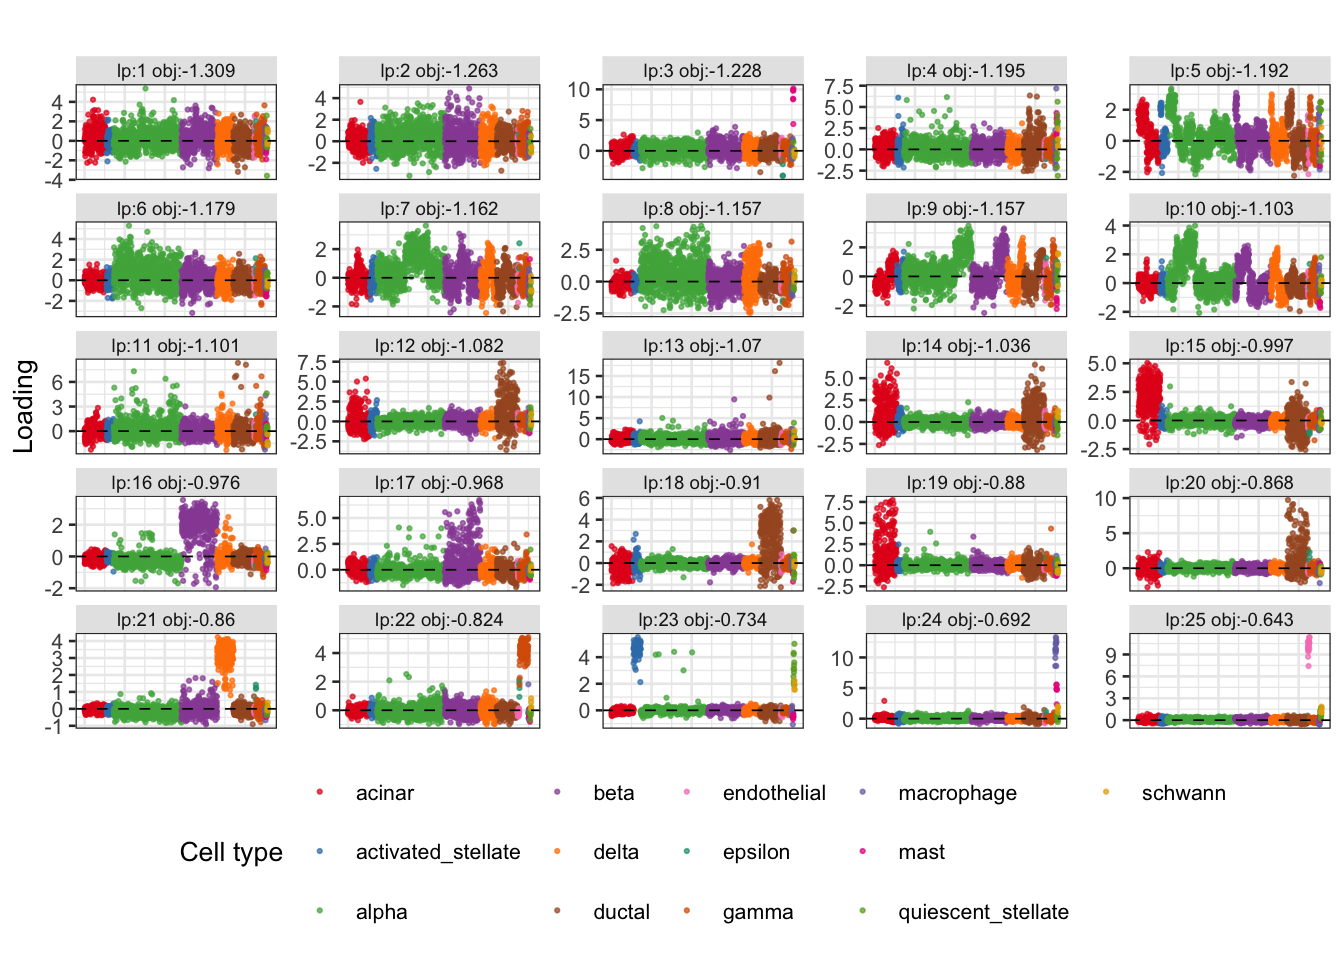
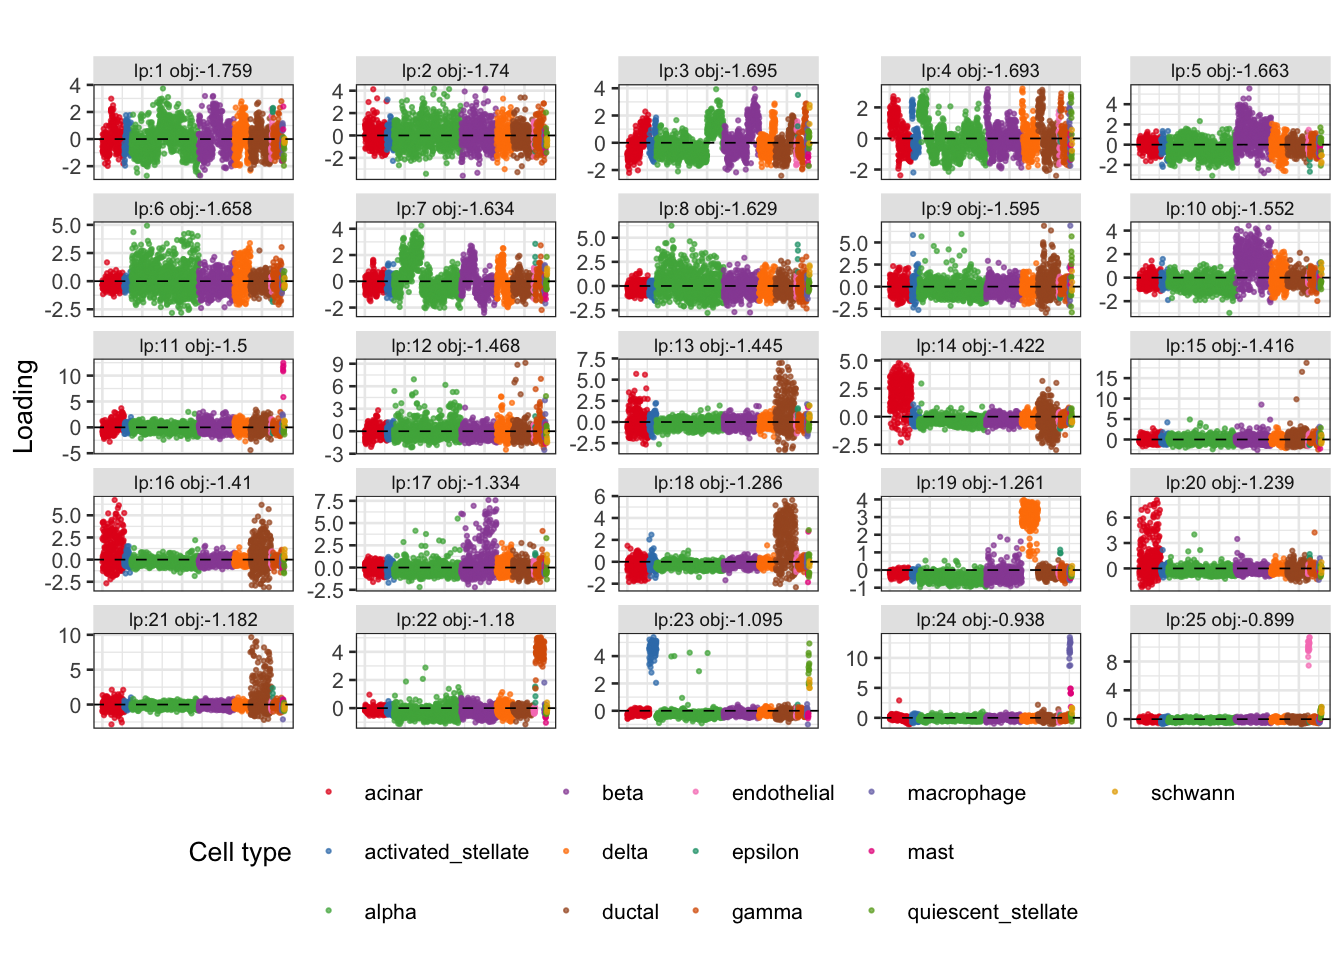
Build site.

diff --git a/docs/pancreas_celseq2_ica_02.html b/docs/pancreas_celseq2_ica_02.html
@@ -465,16 +465,16 @@ This reproducible <a href="https://rmarkdown.rstudio.com">R Markdown</a> analysi
 <div class="panel panel-default">
 <div class="panel-heading">
 <p class="panel-title">
-<a data-toggle="collapse" data-parent="#workflowr-checks" href="#strongRepositoryversionstrongahrefhttpsgithubcomstephenslabsinglecelljamboreetreea8d1267744e4d8fff8fd75a4122e4789c81740b6targetblanka8d1267a"> <span class="glyphicon glyphicon-ok text-success" aria-hidden="true"></span> <strong>Repository version:</strong> <a href="https://github.com/stephenslab/single-cell-jamboree/tree/a8d1267744e4d8fff8fd75a4122e4789c81740b6" target="_blank">a8d1267</a> </a>
+<a data-toggle="collapse" data-parent="#workflowr-checks" href="#strongRepositoryversionstrongahrefhttpsgithubcomstephenslabsinglecelljamboreetree46100371de5296be0116a200f9e0723b4677a32atargetblank4610037a"> <span class="glyphicon glyphicon-ok text-success" aria-hidden="true"></span> <strong>Repository version:</strong> <a href="https://github.com/stephenslab/single-cell-jamboree/tree/46100371de5296be0116a200f9e0723b4677a32a" target="_blank">4610037</a> </a>
 </p>
 </div>
[2 lines of base64/hex data omitted]
 <div class="panel-body">
 <p>
 Great! You are using Git for version control. Tracking code development and connecting the code version to the results is critical for reproducibility.
 </p>
 <p>
-The results in this page were generated with repository version <a href="https://github.com/stephenslab/single-cell-jamboree/tree/a8d1267744e4d8fff8fd75a4122e4789c81740b6" target="_blank">a8d1267</a>. See the <em>Past versions</em> tab to see a history of the changes made to the R Markdown and HTML files.
+The results in this page were generated with repository version <a href="https://github.com/stephenslab/single-cell-jamboree/tree/46100371de5296be0116a200f9e0723b4677a32a" target="_blank">4610037</a>. See the <em>Past versions</em> tab to see a history of the changes made to the R Markdown and HTML files.
 </p>
 <p>
 Note that you need to be careful to ensure that all relevant files for the analysis have been committed to Git prior to generating the results (you can use <code>wflow_publish</code> or <code>wflow_git_commit</code>). workflowr only checks the R Markdown file, but you know if there are other scripts or data files that it depends on. Below is the status of the Git repository when the results were generated:
@@ -542,6 +542,40 @@ Message
 Rmd
 </td>
 <td>
+<a href="https://github.com/stephenslab/single-cell-jamboree/blob/46100371de5296be0116a200f9e0723b4677a32a/analysis/pancreas_celseq2_ica_02.Rmd" target="_blank">4610037</a>
+</td>
+<td>
+Matthew Stephens
+</td>
+<td>
+2026-09-16
+</td>
+<td>
+Fix: centre data before whitening
+</td>
+</tr>
+<tr>
+<td>
+html
+</td>
+<td>
+<a href="https://rawcdn.githack.com/stephenslab/single-cell-jamboree/e748825caa62c5a1cc02333ced41ee9688a74115/docs/pancreas_celseq2_ica_02.html" target="_blank">e748825</a>
+</td>
+<td>
+Matthew Stephens
+</td>
+<td>
+2026-09-16
+</td>
+<td>
+Build site.
+</td>
+</tr>
+<tr>
+<td>
+Rmd
+</td>
+<td>
 <a href="https://github.com/stephenslab/single-cell-jamboree/blob/a8d1267744e4d8fff8fd75a4122e4789c81740b6/analysis/pancreas_celseq2_ica_02.Rmd" target="_blank">a8d1267</a>
 </td>
 <td>
@@ -565,7 +599,7 @@ Add pancreas_celseq2_ica_02: rank-r ICA with cubic, logPhi, x|x|
 <h2>Introduction</h2>
 <p>A second look at ICA on the pancreas CEL-seq2 data, incorporating lessons from the first analysis (<code>pancreas_celseq2_ica.Rmd</code>). Key differences from the first analysis:</p>
 <ul>
-<li>Data are <strong>not centred</strong> before whitening. The mean direction becomes one of the 25 components and can be explicitly examined.</li>
+<li>Data are <strong>centred</strong> (column means subtracted) before whitening, as is standard for ICA.</li>
 <li>We run <strong>rank-<span class="math inline">\(r\)</span> (symmetric) fastICA with <span class="math inline">\(r = 25\)</span></strong> rather than many rank-1 starts, which is faster and avoids the post-hoc deduplication step.</li>
 <li>We compare three contrast functions chosen to favour one-sided/sparse sources: <span class="math inline">\(x^3\)</span> (kurtosis/skewness), <span class="math inline">\(\log\Phi(\alpha x)\)</span> (log-normal CDF), and <span class="math inline">\(x|x|\)</span> (the tilting term of TLC without the log-cosh).</li>
 </ul>
@@ -588,19 +622,20 @@ counts &lt;- counts[, j]
 a &lt;- 1
 s &lt;- rowSums(counts)
 s &lt;- s / mean(s)
-Y &lt;- MatrixExtra::mapSparse(counts / (a * s), log1p)   # NOT centred</code></pre>
+Y &lt;- MatrixExtra::mapSparse(counts / (a * s), log1p)
+Y &lt;- scale(Y, scale = FALSE)   # centre columns</code></pre>
 </div>
-<div id="preprocessing-svd-of-uncentered-data" class="section level2">
-<h2>Preprocessing: SVD of uncentered data</h2>
+<div id="preprocessing-svd-of-centred-data" class="section level2">
+<h2>Preprocessing: SVD of centred data</h2>
 <pre class="r"><code>n      &lt;- nrow(Y)
 n.comp &lt;- 25
 r      &lt;- n.comp
 
 Y.svd &lt;- svd(Y, nu = n.comp, nv = 0)
-# U: n x n.comp, orthonormal columns (left singular vectors of uncentered Y)
-U_unc &lt;- Y.svd$u[, 1:n.comp]
+# U: n x n.comp, orthonormal columns (left singular vectors of centred Y)
+U_c &lt;- Y.svd$u[, 1:n.comp]
 # Whitened row space (n.comp x n, as used by rank-r fastICA)
-U_w   &lt;- sqrt(n) * t(U_unc)</code></pre>
+U_w &lt;- sqrt(n) * t(U_c)</code></pre>
 </div>
 <div id="helper-functions" class="section level2">
 <h2>Helper functions</h2>
@@ -731,6 +766,43 @@ Lhat_cubic &lt;- t(U_w) %*% W_cubic   # n x r
 plot_loadings_matrix(Lhat_cubic, label_prefix = &quot;cub:&quot;,
                      obj_fn = objective_cubic)</code></pre>
 <p><img src="figure/pancreas_celseq2_ica_02.Rmd/ica-cubic-1.png" alt="" width="672" style="display: block; margin: auto;" /></p>
+<p>
+<button type="button" class="btn btn-default btn-xs btn-workflowr btn-workflowr-fig" data-toggle="collapse" data-target="#fig-ica-cubic-1">
+Past versions of ica-cubic-1.png
+</button>
+</p>
+<div id="fig-ica-cubic-1" class="collapse">
+<div class="table-responsive">
+<table class="table table-condensed table-hover">
+<thead>
+<tr>
+<th>
+Version
+</th>
+<th>
+Author
+</th>
+<th>
+Date
+</th>
+</tr>
+</thead>
+<tbody>
+<tr>
+<td>
+<a href="https://github.com/stephenslab/single-cell-jamboree/blob/e748825caa62c5a1cc02333ced41ee9688a74115/docs/figure/pancreas_celseq2_ica_02.Rmd/ica-cubic-1.png" target="_blank">e748825</a>
+</td>
+<td>
+Matthew Stephens
+</td>
+<td>
+2026-09-16
+</td>
+</tr>
+</tbody>
+</table>
+</div>
+</div>
 </div>
 <div id="rank-r-fastica-log-phi-contrast-alpha-2" class="section level2">
 <h2>Rank-r fastICA: log-Phi contrast (alpha = 2)</h2>
@@ -744,6 +816,43 @@ Lhat_lp &lt;- t(U_w) %*% W_lp
 plot_loadings_matrix(Lhat_lp, label_prefix = &quot;lp:&quot;,
                      obj_fn = objective_logphi)</code></pre>
 <p><img src="figure/pancreas_celseq2_ica_02.Rmd/ica-logphi-1.png" alt="" width="672" style="display: block; margin: auto;" /></p>
+<p>
+<button type="button" class="btn btn-default btn-xs btn-workflowr btn-workflowr-fig" data-toggle="collapse" data-target="#fig-ica-logphi-1">
+Past versions of ica-logphi-1.png
+</button>
+</p>
+<div id="fig-ica-logphi-1" class="collapse">
+<div class="table-responsive">
+<table class="table table-condensed table-hover">
+<thead>
+<tr>
+<th>
+Version
+</th>
+<th>
+Author
+</th>
+<th>
+Date
+</th>
+</tr>
+</thead>
+<tbody>
+<tr>
+<td>
+<a href="https://github.com/stephenslab/single-cell-jamboree/blob/e748825caa62c5a1cc02333ced41ee9688a74115/docs/figure/pancreas_celseq2_ica_02.Rmd/ica-logphi-1.png" target="_blank">e748825</a>
+</td>
+<td>
+Matthew Stephens
+</td>
+<td>
+2026-09-16
+</td>
+</tr>
+</tbody>
+</table>
+</div>
+</div>
 </div>
 <div id="rank-r-fastica-xx-contrast" class="section level2">
 <h2>Rank-r fastICA: x|x| contrast</h2>
@@ -757,6 +866,43 @@ Lhat_skew &lt;- t(U_w) %*% W_skew
 plot_loadings_matrix(Lhat_skew, label_prefix = &quot;sk:&quot;,
                      obj_fn = objective_skew)</code></pre>
 <p><img src="figure/pancreas_celseq2_ica_02.Rmd/ica-skew-1.png" alt="" width="672" style="display: block; margin: auto;" /></p>
+<p>
+<button type="button" class="btn btn-default btn-xs btn-workflowr btn-workflowr-fig" data-toggle="collapse" data-target="#fig-ica-skew-1">
+Past versions of ica-skew-1.png
+</button>
+</p>
+<div id="fig-ica-skew-1" class="collapse">
+<div class="table-responsive">
+<table class="table table-condensed table-hover">
+<thead>
+<tr>
+<th>
+Version
+</th>
+<th>
+Author
+</th>
+<th>
+Date
+</th>
+</tr>
+</thead>
+<tbody>
+<tr>
+<td>
+<a href="https://github.com/stephenslab/single-cell-jamboree/blob/e748825caa62c5a1cc02333ced41ee9688a74115/docs/figure/pancreas_celseq2_ica_02.Rmd/ica-skew-1.png" target="_blank">e748825</a>
+</td>
+<td>
+Matthew Stephens
+</td>
+<td>
+2026-09-16
+</td>
+</tr>
+</tbody>
+</table>
+</div>
+</div>
 <br>
 <p>
 <button type="button" class="btn btn-default btn-workflowr btn-workflowr-sessioninfo" data-toggle="collapse" data-target="#workflowr-sessioninfo" style="display: block;">
